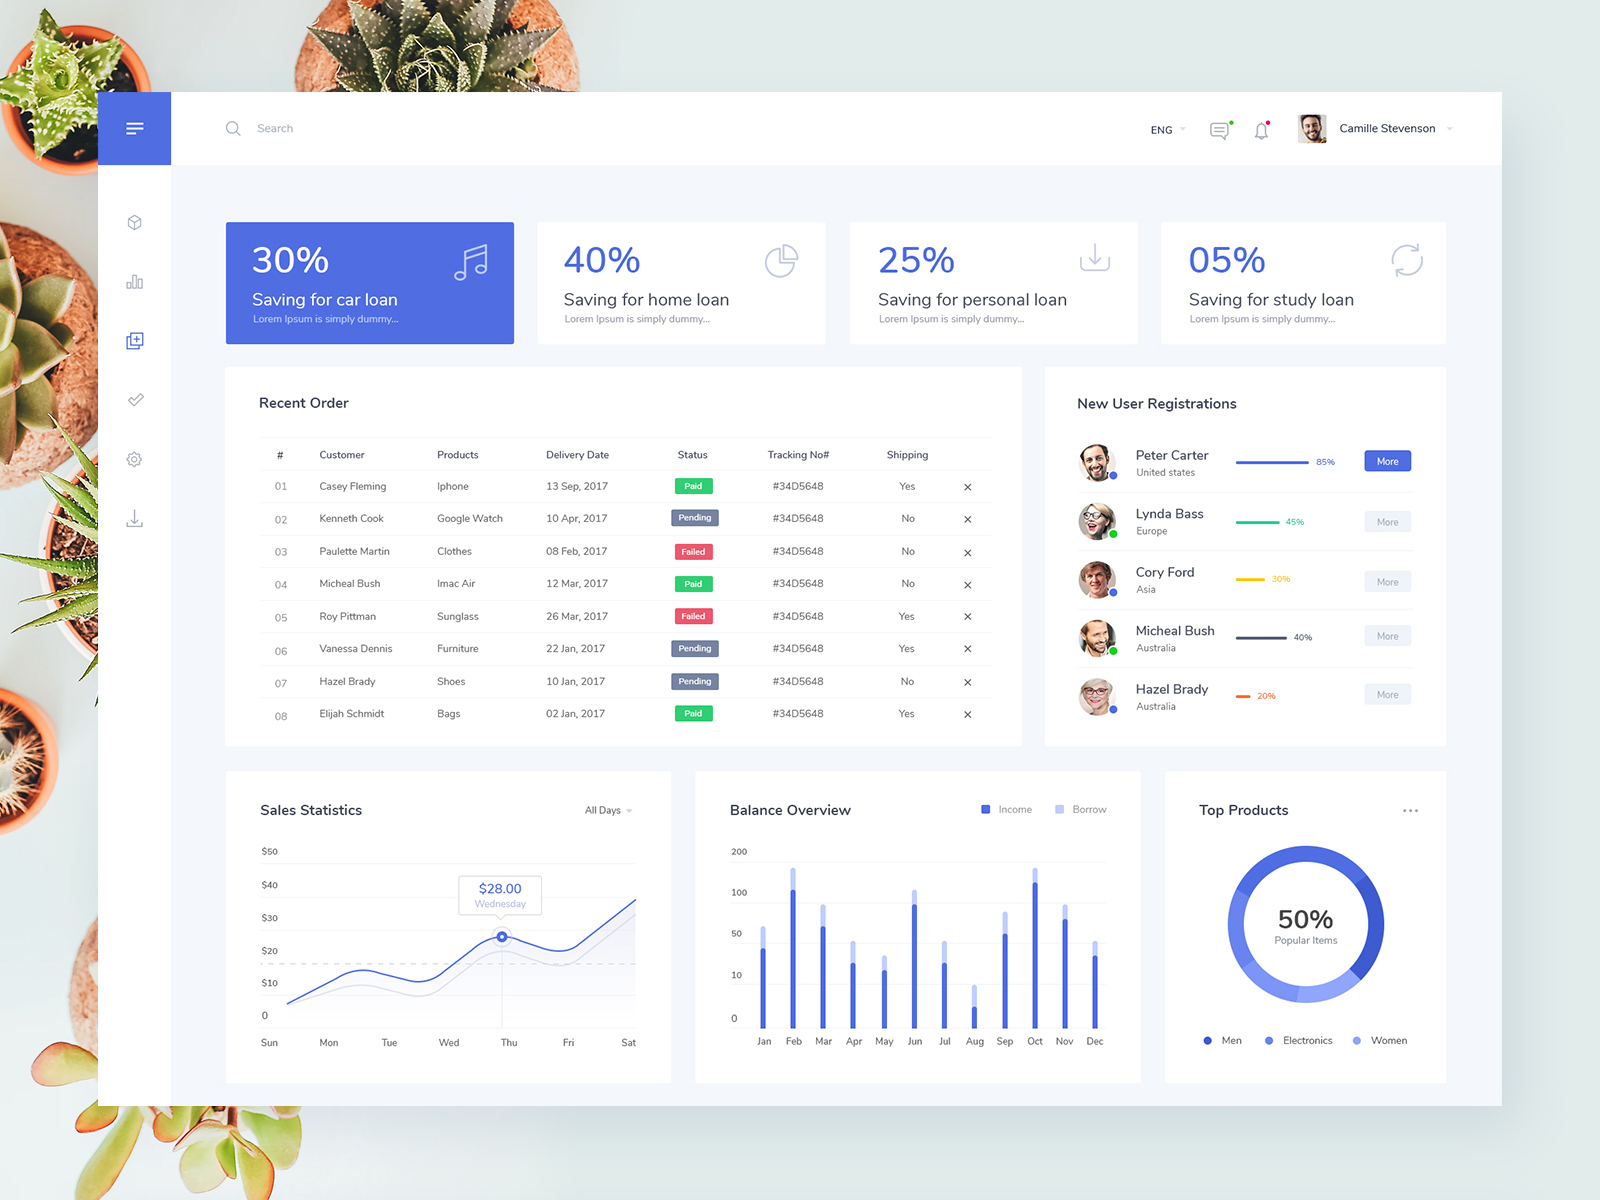
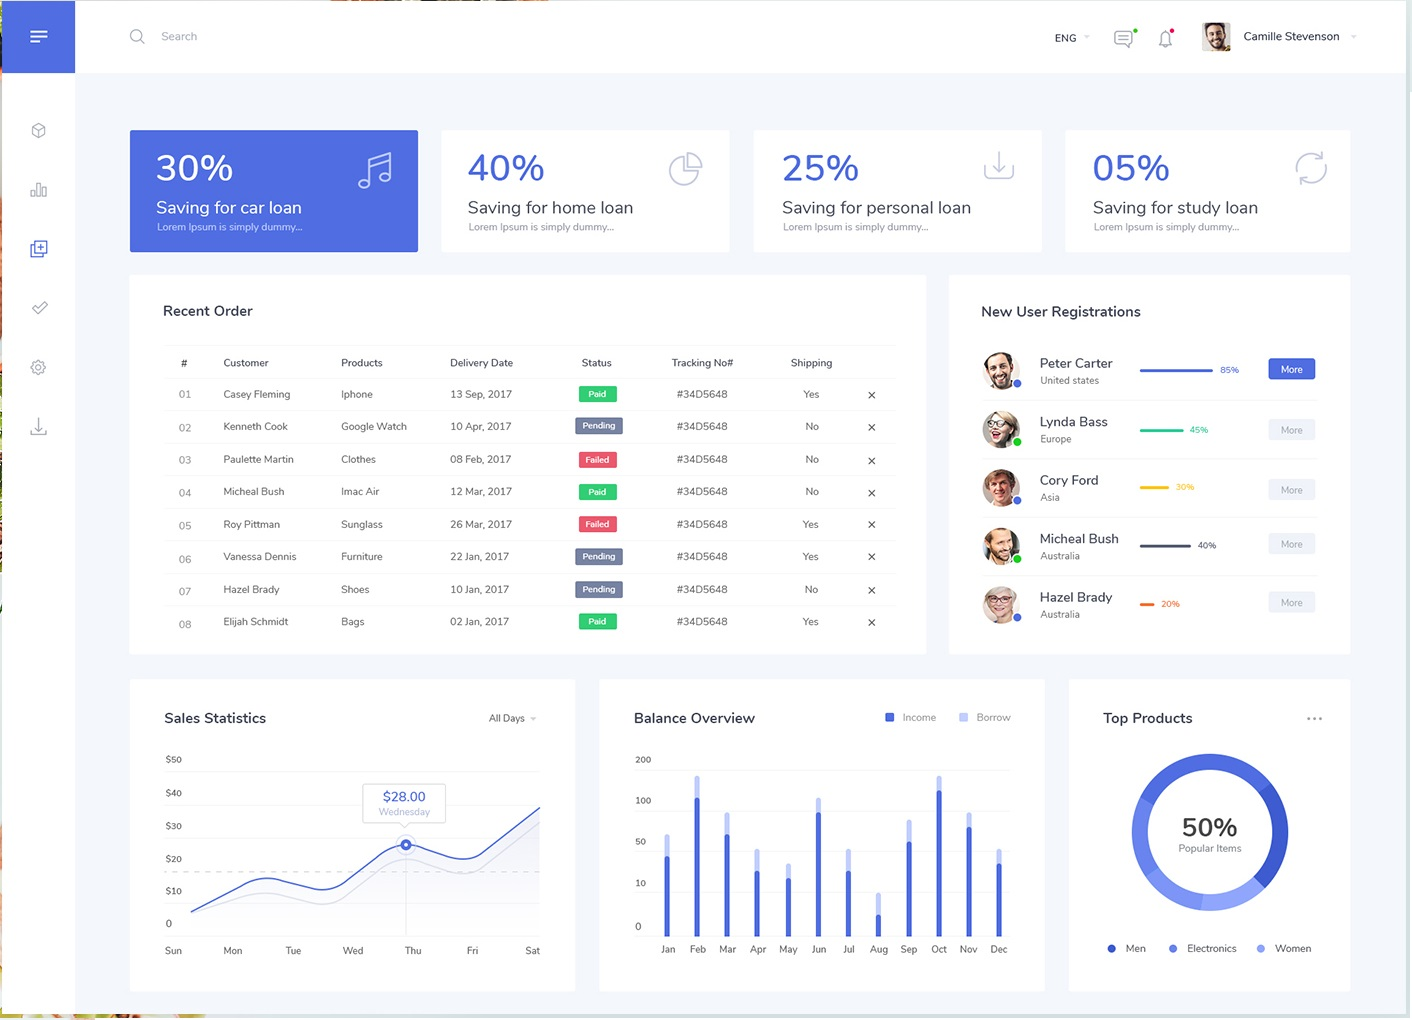
feature card ui is done

diff --git a/src/app/core/components/side-navigation/side-navigation.component.html b/src/app/core/components/side-navigation/side-navigation.component.html
@@ -3,18 +3,12 @@
 
     <ul class="nav__links">
         <li class="nav__links__link">
-            <app-nav-button routerLink="non" routerLinkActive="active-link" class="nav__links__link__item"
-                [icon]="ICON.faCube" />
-            <app-nav-button routerLink="non" routerLinkActive="active-link" class="nav__links__link__item"
-                [icon]="ICON.faBarChart" />
-            <app-nav-button routerLink="dashboard" routerLinkActive="active-link" class="nav__links__link__item"
-                [icon]="ICON.faSquarePlus" />
-            <app-nav-button routerLink="non" routerLinkActive="active-link" class="nav__links__link__item"
-                [icon]="ICON.faCheck" />
-            <app-nav-button routerLink="non" routerLinkActive="active-link" class="nav__links__link__item"
-                [icon]="ICON.faGear" />
-            <app-nav-button routerLink="non" routerLinkActive="active-link" class="nav__links__link__item"
-                [icon]="ICON.faDownload" />
+            <app-nav-button class="nav__links__link__item" [icon]="ICON.faCube" />
+            <app-nav-button class="nav__links__link__item" [icon]="ICON.faBarChart" />
+            <app-nav-button class="nav__links__link__item active-link" [icon]="ICON.faSquarePlus" />
+            <app-nav-button class="nav__links__link__item" [icon]="ICON.faCheck" />
+            <app-nav-button class="nav__links__link__item" [icon]="ICON.faGear" />
+            <app-nav-button class="nav__links__link__item" [icon]="ICON.faDownload" />
         </li>
     </ul>
 </nav>

diff --git a/src/app/featured/dashboard/components/feature-card/feature-card.component.scss b/src/app/featured/dashboard/components/feature-card/feature-card.component.scss
@@ -1,0 +1,55 @@
+@use "functions" as *;
+
+:host {
+  display: block;
+  width: auto;
+ 
+}
+
+.card {
+  padding: toRem(24) toRem(30);
+  display: flex;
+  gap: toRem(16);
+  background-color: var(--primary);
+  width: 100%;
+  justify-content: space-between;
+
+  &__icon {
+    color: var(--light-grey);
+  }
+
+  &__info {
+    &__stats {
+      font-size: toRem(45);
+      color: var(--secondary);
+      line-height: 1;
+      display: inline-block;
+      margin-block-end: toRem(12);
+    }
+
+    &__heading {
+      font-size: toRem(16);
+      font-weight: 500;
+      color: var(--black);
+      margin-block-end: toRem(4);
+    }
+
+    &__sub-heading {
+      font-size: toRem(12);
+      color: var(--grey);
+
+    }
+  }
+
+}
+
+.special {
+  background-color: var(--secondary);
+
+  .card__info__stats,
+  .card__info__heading,
+  .card__info__sub-heading {
+    color: var(--primary);
+  }
+
+}

diff --git a/src/app/featured/dashboard/components/feature-card/feature-card.component.spec.ts b/src/app/featured/dashboard/components/feature-card/feature-card.component.spec.ts
@@ -1,0 +1,21 @@
+import { ComponentFixture, TestBed } from '@angular/core/testing';
+
+import { FeatureCardComponent } from './feature-card.component';
+
+describe('FeatureCardComponent', () => {
+  let component: FeatureCardComponent;
+  let fixture: ComponentFixture<FeatureCardComponent>;
+
+  beforeEach(() => {
+    TestBed.configureTestingModule({
+      declarations: [FeatureCardComponent]
+    });
+    fixture = TestBed.createComponent(FeatureCardComponent);
+    component = fixture.componentInstance;
+    fixture.detectChanges();
+  });
+
+  it('should create', () => {
+    expect(component).toBeTruthy();
+  });
+});

diff --git a/src/app/featured/dashboard/dashboard.module.ts b/src/app/featured/dashboard/dashboard.module.ts
@@ -3,15 +3,19 @@ import { CommonModule } from '@angular/common';
 
 import { DashboardRoutingModule } from './dashboard-routing.module';
 import { DashboardComponent } from './dashboard.component';
+import { FeatureCardComponent } from './components/feature-card/feature-card.component';
+import { SharedModule } from 'src/app/shared/shared.module';
 
 
 @NgModule({
   declarations: [
-    DashboardComponent
+    DashboardComponent,
+    FeatureCardComponent
   ],
   imports: [
     CommonModule,
-    DashboardRoutingModule
+    DashboardRoutingModule,
+    SharedModule,
   ]
 })
 export class DashboardModule { }

diff --git a/src/app/core/layout/layout.component.scss b/src/app/core/layout/layout.component.scss
@@ -2,18 +2,23 @@
 
 .layout {
     width: 100%;
-    display: flex;
     height: 100vh;
 
     &__navigation {
-        flex: 0 0 toRem(72);
         background-color: var(--primary);
+        width: 4.5rem;
+        display: block;
+        position: absolute;
+        left: 0;
+        top: 0;
 
     }
 
     &__outlet {
         flex: 1 0 auto;
         overflow-y: auto;
+        margin-inline-start: 4.5rem;
+        width: calc(100% - 4.5rem);
 
         &__header{
             position: sticky;

diff --git a/src/app/featured/dashboard/components/feature-card/feature-card.component.ts b/src/app/featured/dashboard/components/feature-card/feature-card.component.ts
@@ -1,0 +1,14 @@
+import { ChangeDetectionStrategy, Component, Input } from '@angular/core';
+import { faMusic } from '@fortawesome/free-solid-svg-icons';
+
+@Component({
+  selector: 'app-feature-card',
+  templateUrl: './feature-card.component.html',
+  styleUrls: ['./feature-card.component.scss'],
+  changeDetection: ChangeDetectionStrategy.OnPush
+})
+export class FeatureCardComponent {
+  @Input() special: boolean = false;
+  faMusic = faMusic;
+
+}

diff --git a/src/app/featured/dashboard/dashboard.component.html b/src/app/featured/dashboard/dashboard.component.html
@@ -1,1 +1,8 @@
-<p>dashboard works!</p>
+<section class="dashboard">
+    <div class="dashboard__cards">
+        <app-feature-card [special]="true" class="dashboard__cards__card"></app-feature-card>
+        <app-feature-card class="dashboard__cards__card"></app-feature-card>
+        <app-feature-card class="dashboard__cards__card"></app-feature-card>
+        <app-feature-card class="dashboard__cards__card"></app-feature-card>
+    </div>
+</section>

diff --git a/src/app/featured/dashboard/components/feature-card/feature-card.component.html b/src/app/featured/dashboard/components/feature-card/feature-card.component.html
@@ -1,0 +1,11 @@
+<article [ngClass]="{
+    'card' : true,
+    special: special
+}">
+    <div class="card__info">
+        <span class="card__info__stats">40%</span>
+        <h2 class="card__info__heading">Saving for home plane</h2>
+        <p class="card__info__sub-heading">Lorem ipsum dolor sit amet.</p>
+    </div>
+    <fa-icon class="card__icon" [icon]="faMusic" [size]="'2x'"></fa-icon>
+</article>

diff --git a/src/app/featured/dashboard/dashboard.component.scss b/src/app/featured/dashboard/dashboard.component.scss
@@ -1,0 +1,19 @@
+@use "functions" as *;
+
+:host {
+    display: block;
+}
+
+.dashboard{
+    width: 100%;
+    &__cards{
+        width: 100%;
+        
+        display: grid;
+        gap: toRem(24);
+        grid-template-columns: repeat(auto-fit, minmax(toRem(188), 1fr));
+        &__card{
+            flex-grow: 1;
+        }
+    }
+}
